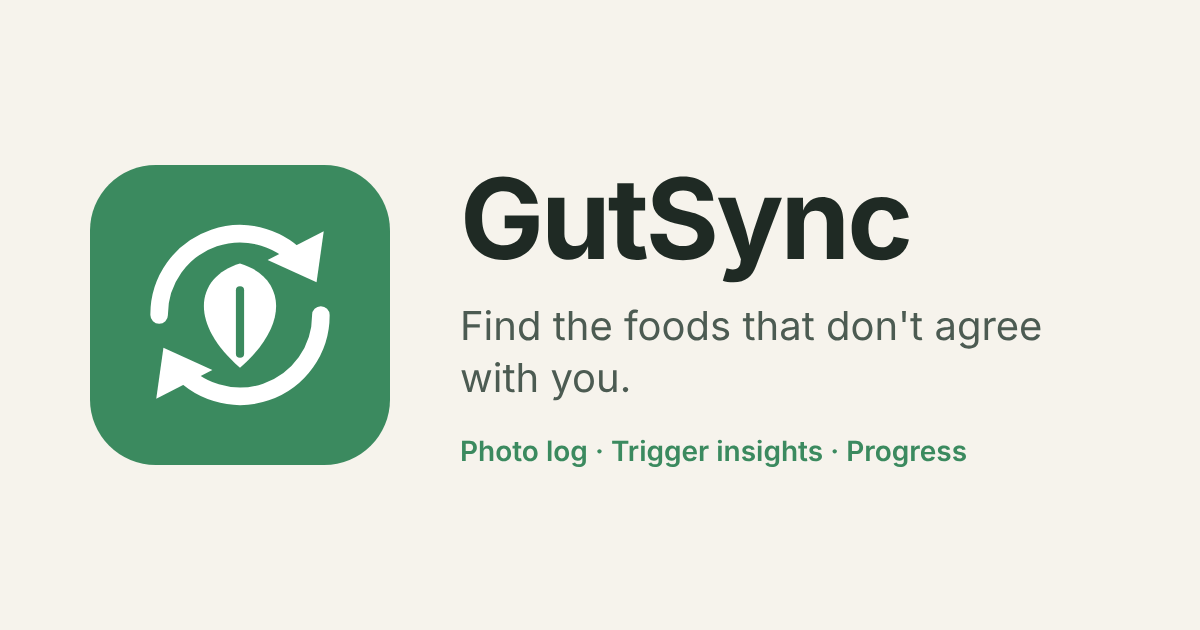
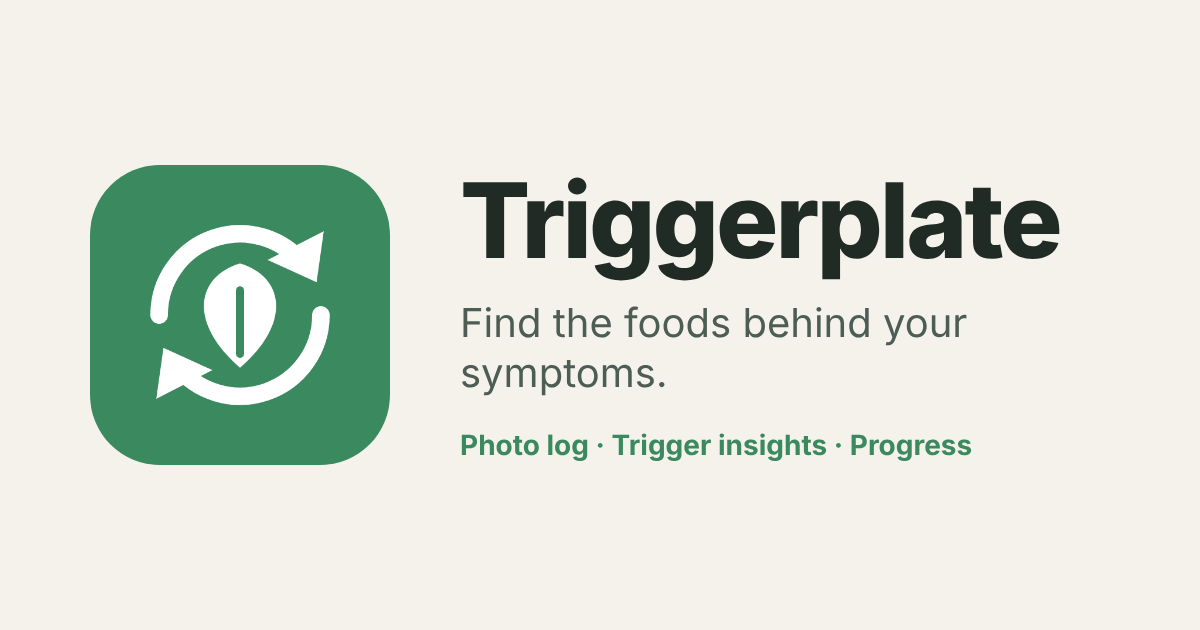
Share image: Triggerplate branding instead of GutSync
Claude-Session: https://claude.ai/code/session_01KXyvZ2GsDTo13FrmtB1u6Z

diff --git a/client/index.html b/client/index.html
@@ -19,7 +19,7 @@
     <meta property="og:image" content="https://triggerplate.com/og-image.png" />
     <meta property="og:image:width" content="1200" />
     <meta property="og:image:height" content="630" />
-    <meta property="og:image:alt" content="Triggerplate app icon and name" />
+    <meta property="og:image:alt" content="Triggerplate: find the foods behind your symptoms" />
     <meta name="twitter:card" content="summary_large_image" />
     <meta name="twitter:title" content="Triggerplate — track your protocol, find your triggers" />
     <meta name="twitter:description" content="Your personal protocol tracker. Log meals, doses, supplements, symptoms, weight and labs, and spot which foods may be triggering symptoms." />
